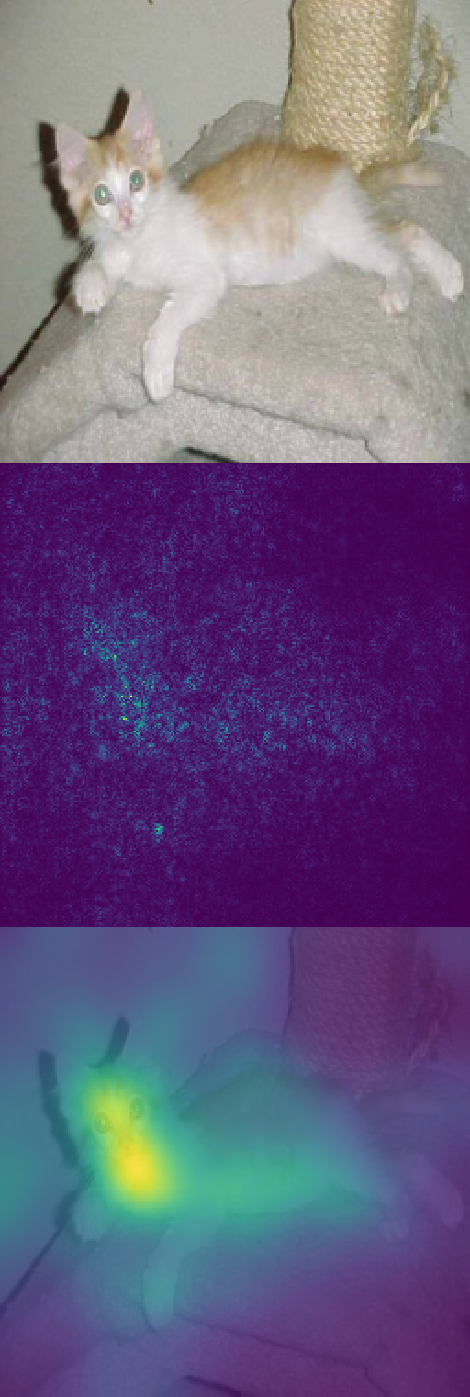
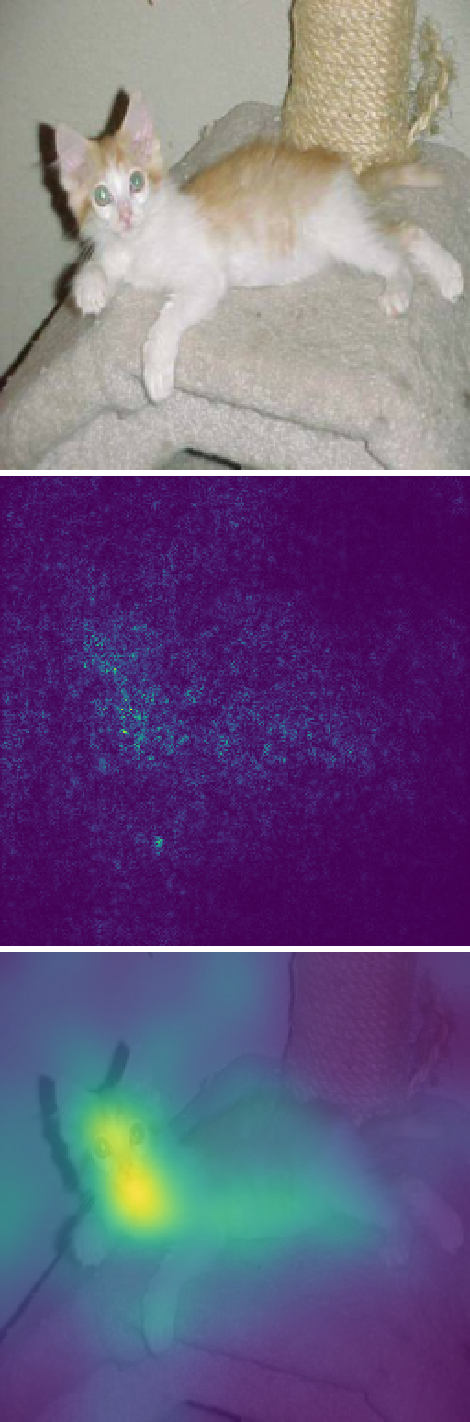
image margin

diff --git a/saliency_visual.py b/saliency_visual.py
@@ -237,7 +237,7 @@ if __name__ == "__main__":
     ax3.set_yticklabels([])
     ax3.set_xticklabels([])
 
-    fig.subplots_adjust(wspace=-0.3, hspace=-0.3)
+    fig.subplots_adjust(wspace=-0.2, hspace=-0.2)
     fig.tight_layout()
 
     ax1.axes.get_xaxis().set_visible(False)
